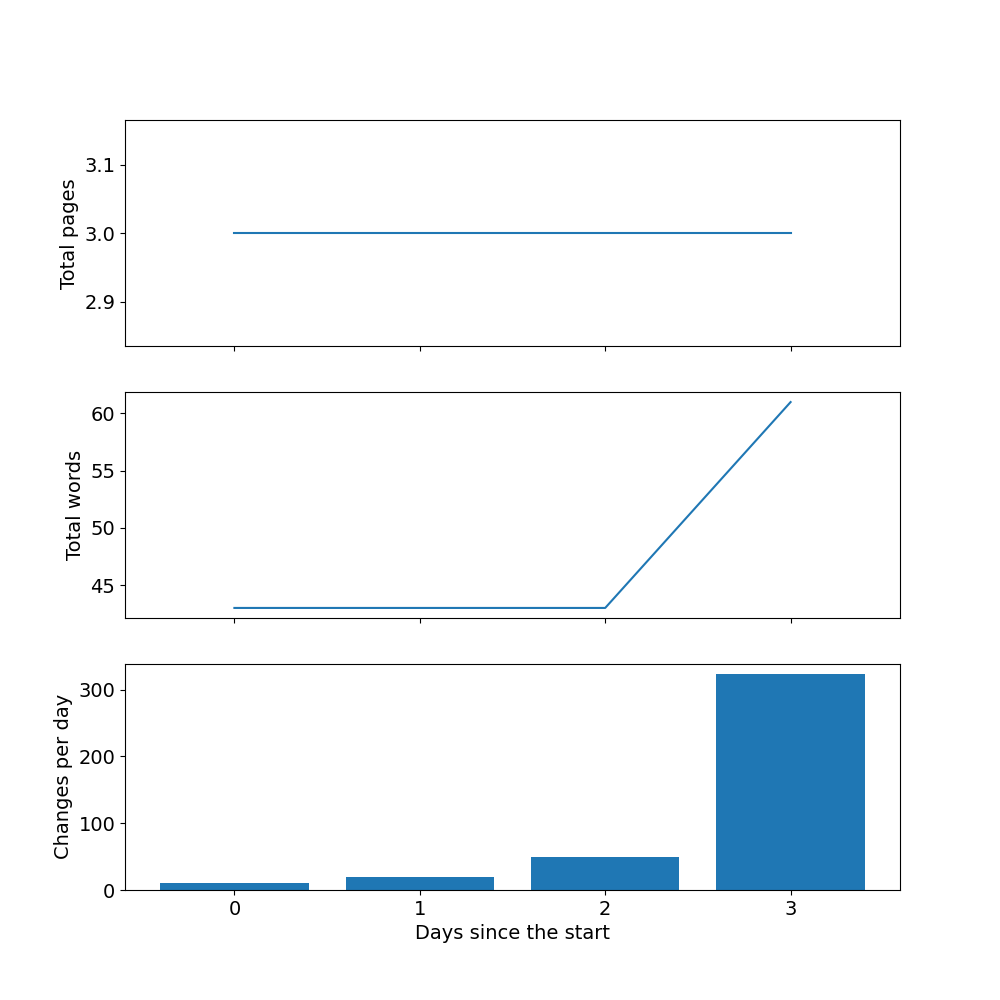
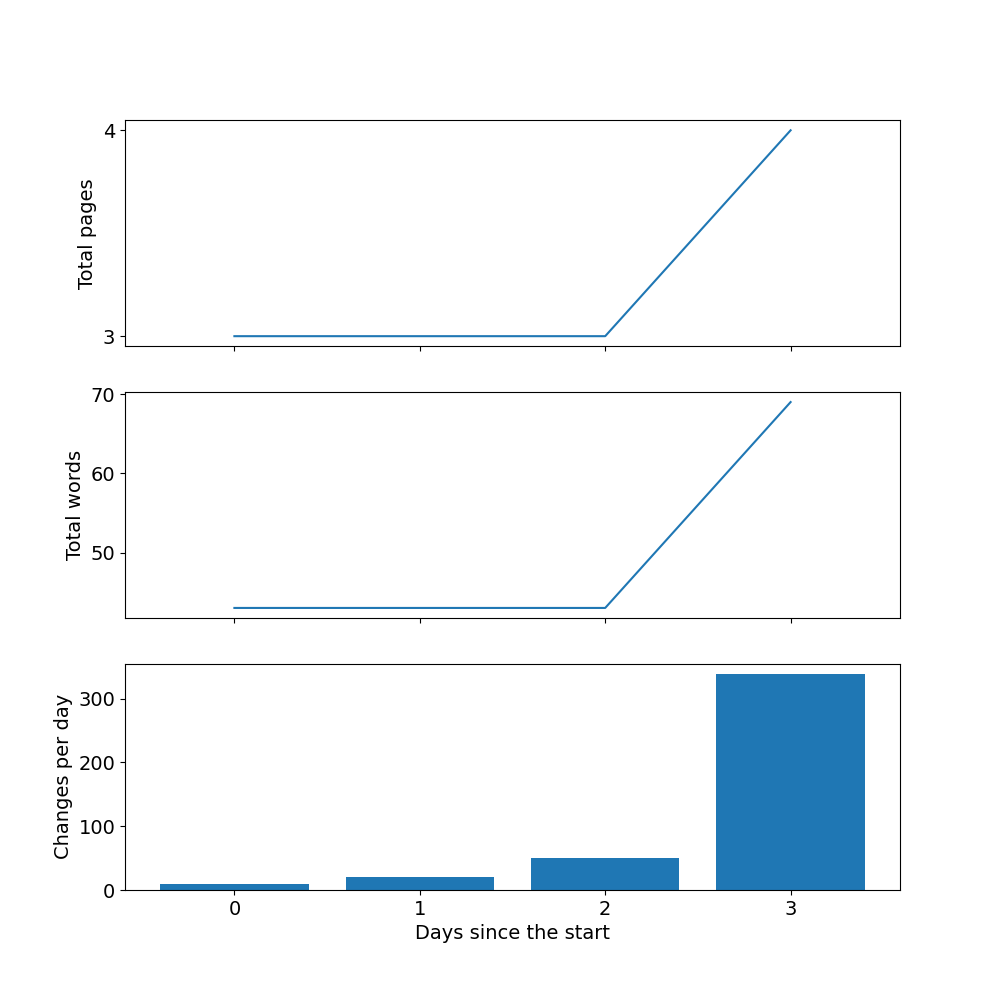
Checking if the number of pages is correctly measured too

diff --git a/src/ch1.tex b/src/ch1.tex
@@ -19,3 +19,7 @@ line
 More text for testing my scripts xD
 
 This is another line just to be sure
+
+\pagebreak
+
+Now this should increase my number of pages
